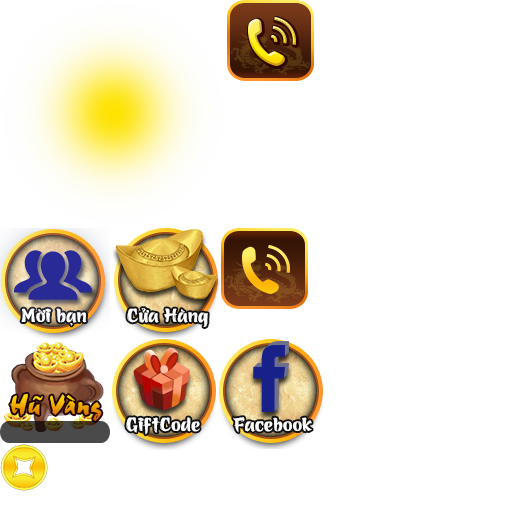
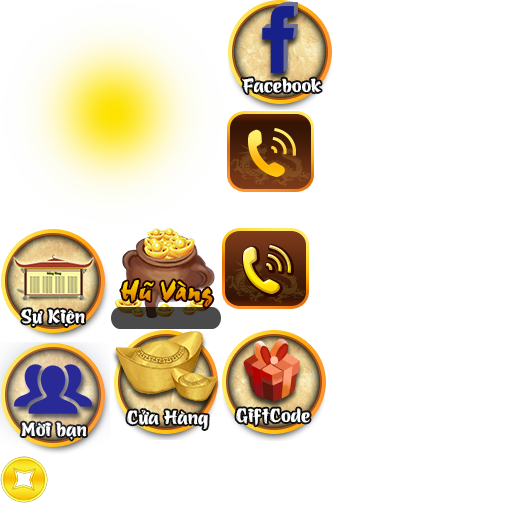
Add btnEvent

Changed region(s): [[0.0, 0.4375, 0.6562, 1.0], [0.4375, 0.0, 0.6562, 0.375]]

diff --git a/Classes/MainScene.cpp b/Classes/MainScene.cpp
@@ -25,10 +25,14 @@ void MainScene::onInit()
 	vecPos.push_back(Vec2(1040, 350));
 	vecPos.push_back(Vec2(1040, 210));
 	vecPos.push_back(Vec2(1040, 70));
-	vecPos.push_back(Vec2(380, 420));
-	vecPos.push_back(Vec2(740, 420));
-	vecPos.push_back(Vec2(380, 150));
-	vecPos.push_back(Vec2(740, 150));
+	/*vecPos.push_back(Vec2(390, 420));
+	vecPos.push_back(Vec2(730, 420));
+	vecPos.push_back(Vec2(390, 150));
+	vecPos.push_back(Vec2(730, 150));*/
+	vecPos.push_back(Vec2(560 - 170 * scaleScene.y, 285 + 135 * scaleScene.x));
+	vecPos.push_back(Vec2(560 + 170 * scaleScene.y, 285 + 135 * scaleScene.x));
+	vecPos.push_back(Vec2(560 - 170 * scaleScene.y, 285 - 135 * scaleScene.x));
+	vecPos.push_back(Vec2(560 + 170 * scaleScene.y, 285 - 135 * scaleScene.x));
 	int m = 0;
 
 	initHeaderWithInfos();
@@ -53,12 +57,22 @@ void MainScene::onInit()
 
 	ui::Button* btnAgency = ui::Button::create("icon_agency.png", "", "", ui::Widget::TextureResType::PLIST);
 	btnAgency->setPosition(vecPos[0]);
-	btnAgency->setVisible(pmE && !canInvite);
+	btnAgency->setVisible(!btnFBFriends->isVisible());
 	addTouchEventListener(btnAgency, [=]() {
 		showPopupNotice(Utils::getSingleton().getStringForKey("feature_coming_soon"), [=]() {});
 	});
 	mLayer->addChild(btnAgency);
 	autoScaleNode(btnAgency);
+
+	btnEvent = ui::Button::create("icon_event.png", "", "", ui::Widget::TextureResType::PLIST);
+	btnEvent->setPosition(vecPos[0] + Vec2(110, 0));
+	btnEvent->setVisible(false);
+	addTouchEventListener(btnEvent, [=]() {
+		Utils::getSingleton().hasShowEventPopup = true;
+		showWebView(Utils::getSingleton().dynamicConfig.PopupUrl);
+	});
+	mLayer->addChild(btnEvent);
+	autoScaleNode(btnEvent);
 
 	ui::Button* btnGuide = ui::Button::create("icon_guide.png", "", "", ui::Widget::TextureResType::PLIST);
 	btnGuide->setPosition(vecPos[1]);
@@ -163,6 +177,7 @@ void MainScene::onInit()
 
 	ui::Button* btnNhaTranh = ui::Button::create("nha_tranh.png", "nha_tranh.png", "", ui::Widget::TextureResType::PLIST);
 	btnNhaTranh->setPosition(vecPos[8]);
+	btnNhaTranh->setScale(.95f);
 	addTouchEventListener(btnNhaTranh, [=]() {
 		if (isWaiting) return;
 		showWaiting();
@@ -175,6 +190,7 @@ void MainScene::onInit()
 
 	ui::Button* btnDinhLang = ui::Button::create("dinhlang.png", "dinhlang.png", "", ui::Widget::TextureResType::PLIST);
 	btnDinhLang->setPosition(vecPos[9]);
+	btnDinhLang->setScale(.95f);
 	addTouchEventListener(btnDinhLang, [=]() {
 		if (isWaiting) return;
 		showWaiting();
@@ -187,6 +203,7 @@ void MainScene::onInit()
 
 	ui::Button* btnPhuChua = ui::Button::create("phuchua.png", "phuchua.png", "", ui::Widget::TextureResType::PLIST);
 	btnPhuChua->setPosition(vecPos[10]);
+	btnPhuChua->setScale(.95f);
 	addTouchEventListener(btnPhuChua, [=]() {
 		if (isWaiting) return;
 		showWaiting();
@@ -199,6 +216,7 @@ void MainScene::onInit()
 
 	ui::Button* btnLoiDai = ui::Button::create("dtd.png", "dtd.png", "", ui::Widget::TextureResType::PLIST);
 	btnLoiDai->setPosition(vecPos[11]);
+	btnLoiDai->setScale(.95f);
 	addTouchEventListener(btnLoiDai, [=]() {
 		//showPopupNotice(Utils::getSingleton().getStringForKey("feature_coming_soon"), [=]() {});
 		if (isWaiting) return;
@@ -938,9 +956,11 @@ void MainScene::onDynamicConfigReceived()
 {
 	if (Utils::getSingleton().allowEventPopup 
 		&& Utils::getSingleton().dynamicConfig.Popup
-		&& !Utils::getSingleton().hasShowEventPopup) {
-		Utils::getSingleton().hasShowEventPopup = true;
-		showWebView(Utils::getSingleton().dynamicConfig.PopupUrl);
+		&& !Utils::getSingleton().hasShowEventPopup
+		&& Utils::getSingleton().ispmE()) {
+		//Utils::getSingleton().hasShowEventPopup = true;
+		//showWebView(Utils::getSingleton().dynamicConfig.PopupUrl);
+		btnEvent->setVisible(true);
 	}
 }
 
@@ -2037,6 +2057,7 @@ void MainScene::initWebView()
 	checkbox->loadTextureFrontCross("check.png", ui::Widget::TextureResType::PLIST);
 	checkbox->setPosition(Vec2(-500, -320));
 	checkbox->setSelected(false);
+	checkbox->setVisible(false);
 	nodeWebview->addChild(checkbox);
 	checkbox->addEventListener([=](Ref* ref, ui::CheckBox::EventType type) {
 		if (type == ui::CheckBox::EventType::SELECTED) {
@@ -2050,6 +2071,7 @@ void MainScene::initWebView()
 	lb->setPosition(checkbox->getPosition() + Vec2(40, 0));
 	lb->setAnchorPoint(Vec2(0, .5f));
 	lb->setColor(Color3B::WHITE);
+	lb->setVisible(false);
 	nodeWebview->addChild(lb);
 
 	ui::Button* btnClose = ui::Button::create("btn_dong.png", "btn_dong_clicked.png", "", ui::Widget::TextureResType::PLIST);

diff --git a/Classes/MainScene.h b/Classes/MainScene.h
@@ -61,6 +61,7 @@ private:
 	cocos2d::Node* nodeWebview;
 
 	cocos2d::Label* lbNewMail;
+	cocos2d::ui::Button* btnEvent;
 
 	int currentMoneyType = 0;
 	int tmpZoneId = -1;
